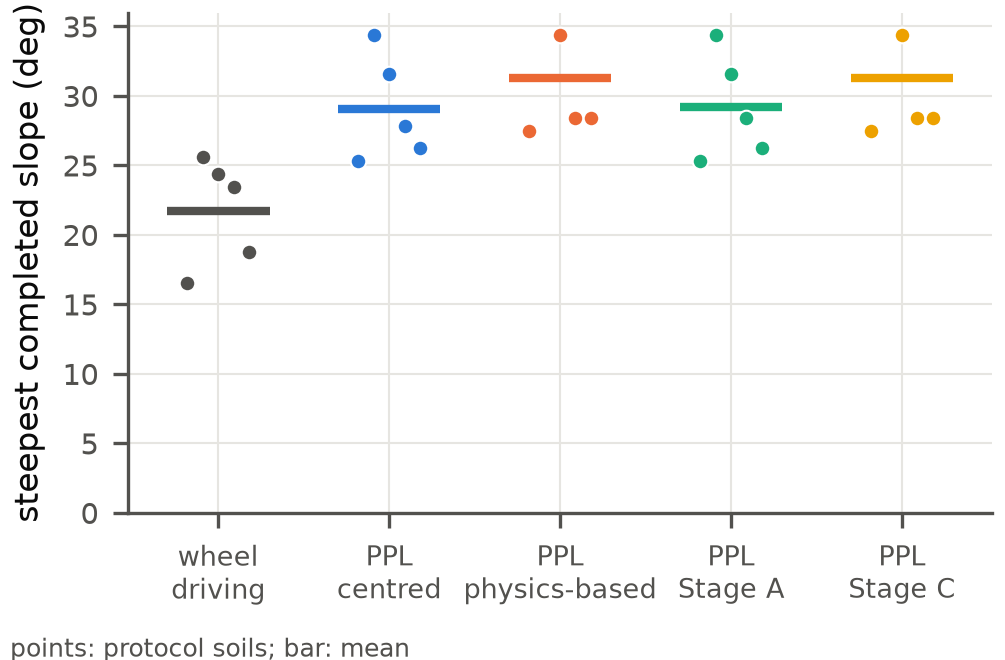
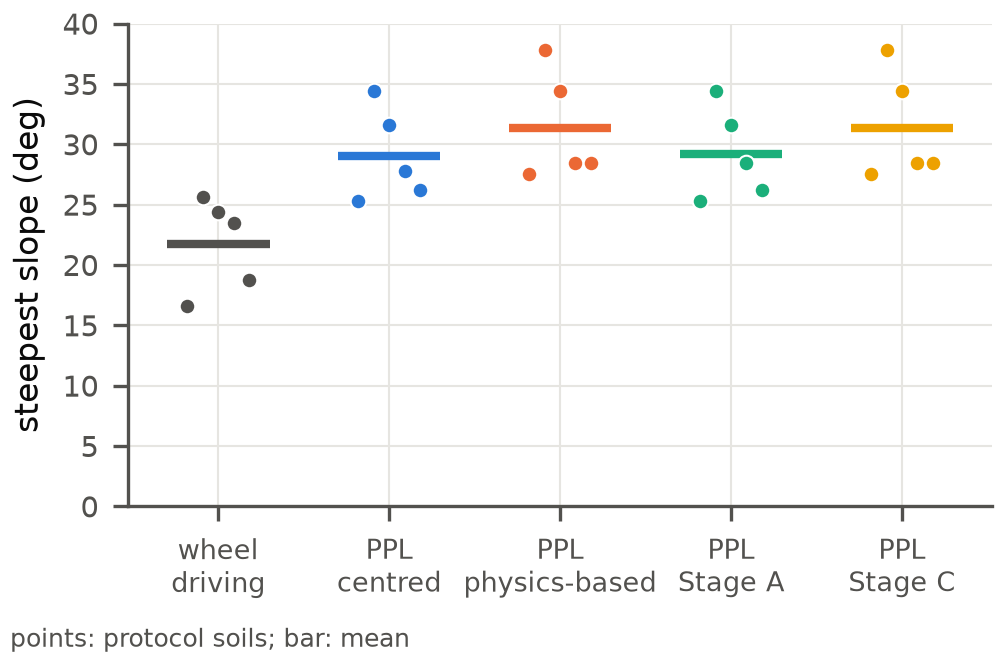
update plots

diff --git a/pplcog/sim/plots_sim.py b/pplcog/sim/plots_sim.py
@@ -117,10 +117,10 @@ def plot_steepest(steep: dict, soils_idx, stem: Path, conditions=("B1", "B2", "B
             ax.hlines(np.nanmean(v), i - 0.3, i + 0.3, color=COND_COLOURS[cond], lw=2)
     short = {"B1": "wheel\ndriving", "B2": "PPL\ncentred", "B3": "PPL\nphysics-based", "A": "PPL\nStage A", "C": "PPL\nStage C"}
     ax.set_xticks(x); ax.set_xticklabels([short[c] for c in conditions], fontsize=6.5)
-    ax.set_ylabel("steepest completed slope (deg)")
-    ax.set_ylim(0, 36)
-    fig.get_layout_engine().set(rect=(0, 0.06, 1, 0.94))  # strip for the footnote under the tick labels
-    fig.text(0.01, 0.005, "points: protocol soils; bar: mean", fontsize=6, color=INK2)
+    ax.set_ylabel("steepest slope (deg)")
+    ax.set_ylim(0, 40)  # upper bound of the bisection, so that the axis spans the search range
+    fig.get_layout_engine().set(rect=(0, 0.07, 1, 0.93))  # strip for the footnote under the tick labels
+    fig.text(0.01, 0.02, "points: protocol soils; bar: mean", fontsize=6, color=INK2)
     _save(fig, stem)
 
 

diff --git a/pplcog/sim/report_sim.py b/pplcog/sim/report_sim.py
@@ -230,7 +230,7 @@ $\theta$ ($^\circ$) & condition & completed & slip & efficiency & CoT & $z$ (mm)
 
 \begin{{table}}[!ht]
 \centering
-\caption{{\rev{{Protocol criteria as paired differences across the five protocol soils (negative = improvement): mean difference, number of soil pairs with both runs completed, Cohen's $d_z$, and the paired $t$-test $p$-value. Rows with fewer than two completed pairs are excluded from the count in the text. With $n = 5$ no exact Wilcoxon test can reach $p < 0.05$.\\}}}}
+\caption{{\rev{{Protocol criteria as paired differences across the five protocol soils (negative = improvement): mean difference, number of soil pairs with both runs completed, Cohen's $d_z$, and the paired $t$-test $p$-value. Rows with fewer than two completed pairs are excluded from the count in the text.\\}}}}
 \label{{tab:simcriteria}}
 \small
 \begin{{tabular}}{{@{{}}r l r c r r@{{}}}}
